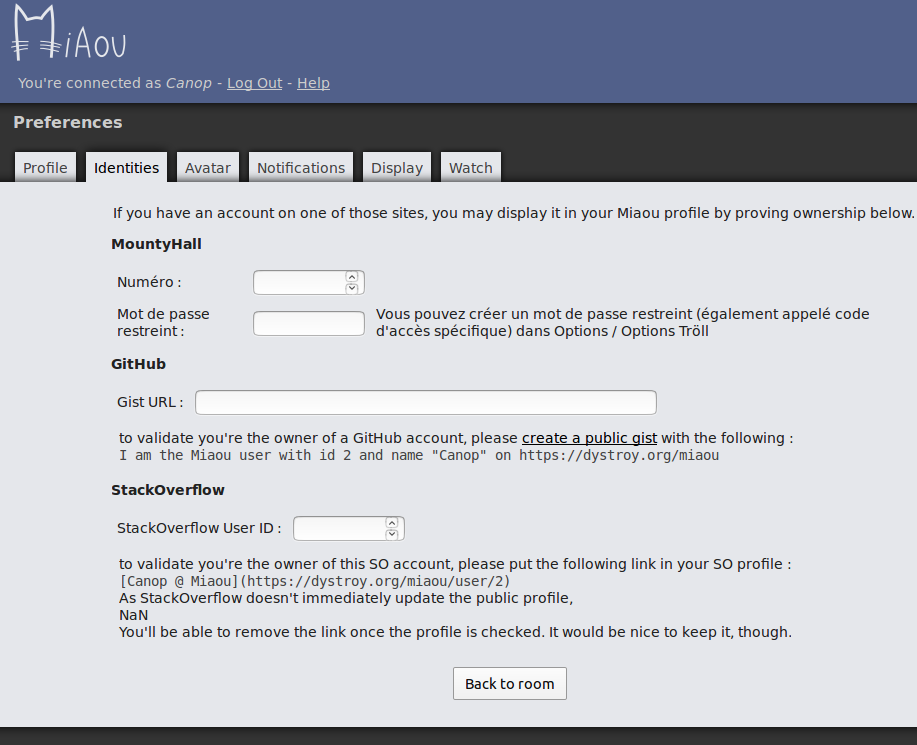
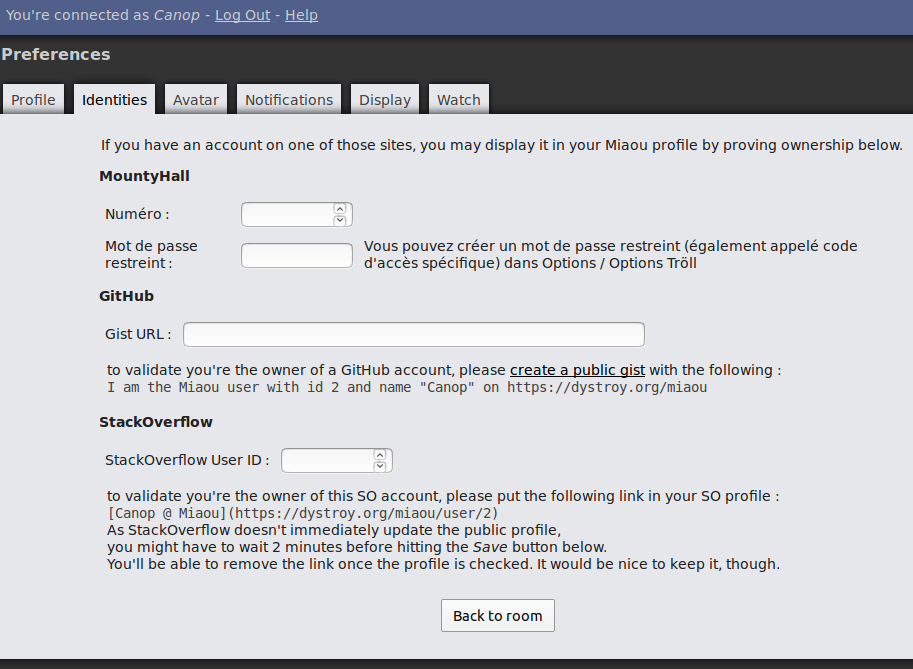
remove the "NaN" in SO identity proving instructions

diff --git a/plugins/stackoverflow/plugin.js b/plugins/stackoverflow/plugin.js
@@ -54,7 +54,7 @@ function describeSOProfileCreation(user){
 		"to validate you're the owner of this SO account, please put the following link in your SO profile :",
 		"<code>["+user.name+" @ Miaou]("+config.server+"/user/"+user.id+")</code>",
 		"As StackOverflow doesn't immediately update the public profile,",
-		+ " you might have to wait 2 minutes before hitting the <i>Save</i> button below.",
+		" you might have to wait 2 minutes before hitting the <i>Save</i> button below.",
 		"You'll be able to remove the link once the profile is checked. It would be nice to keep it, though.",
 	].join('<br>');
 }
